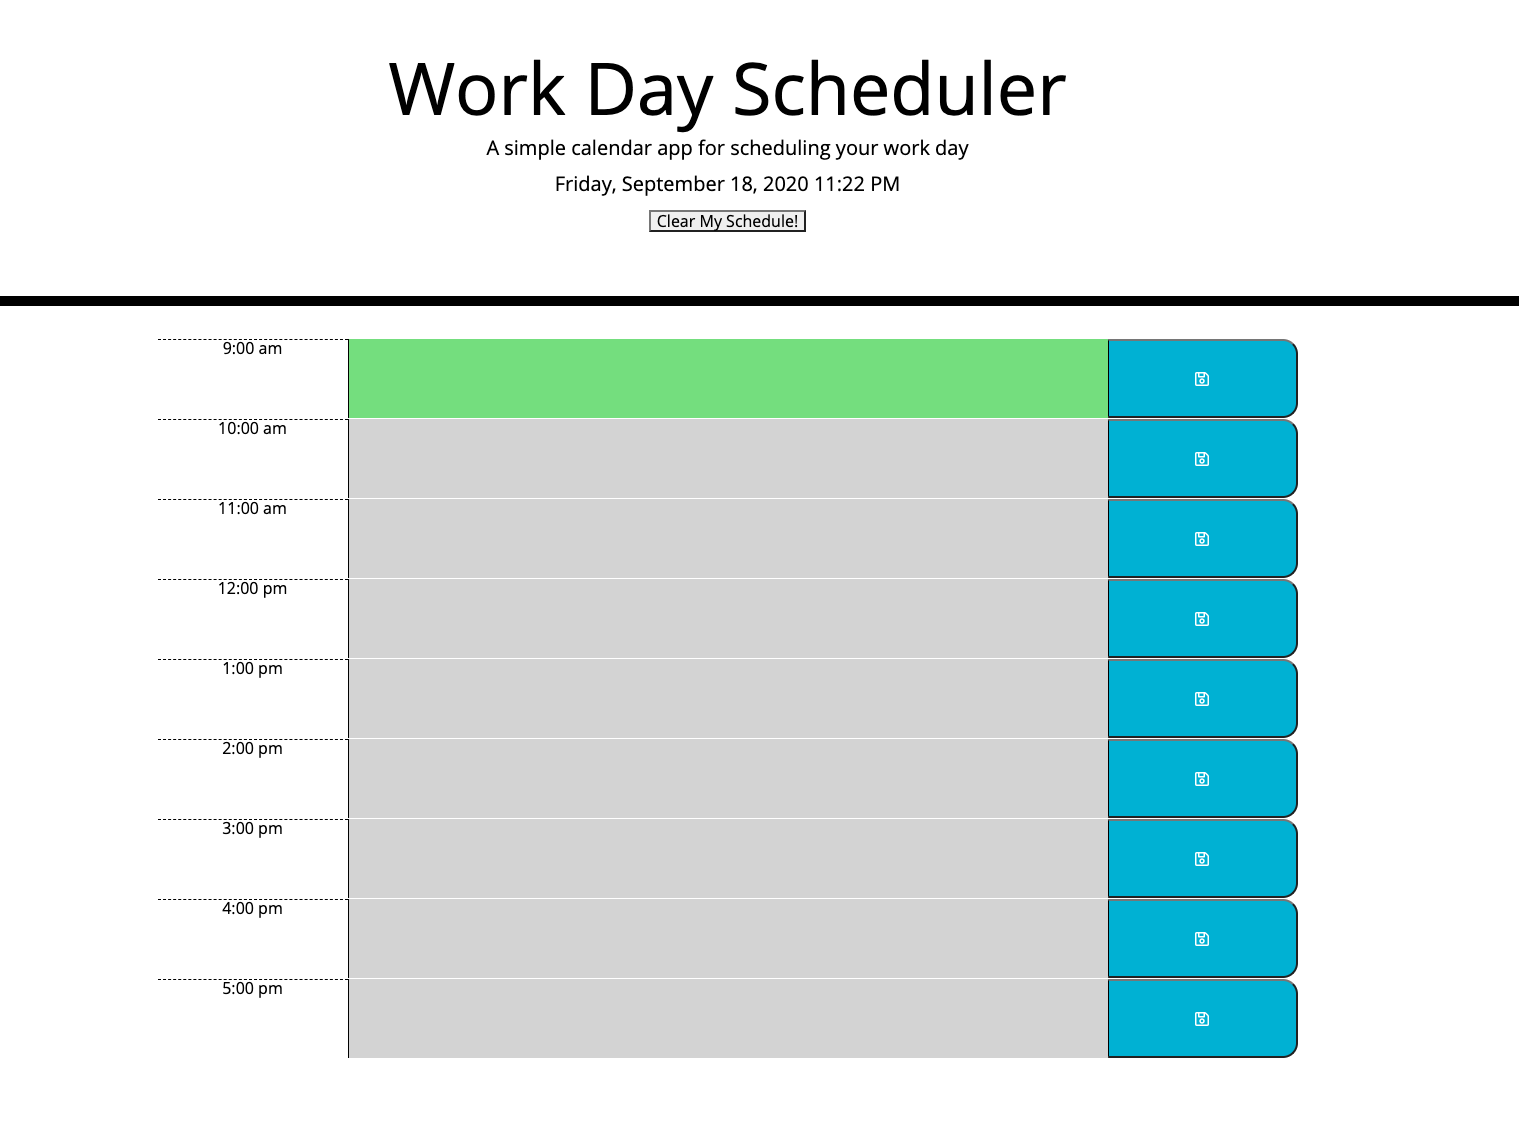
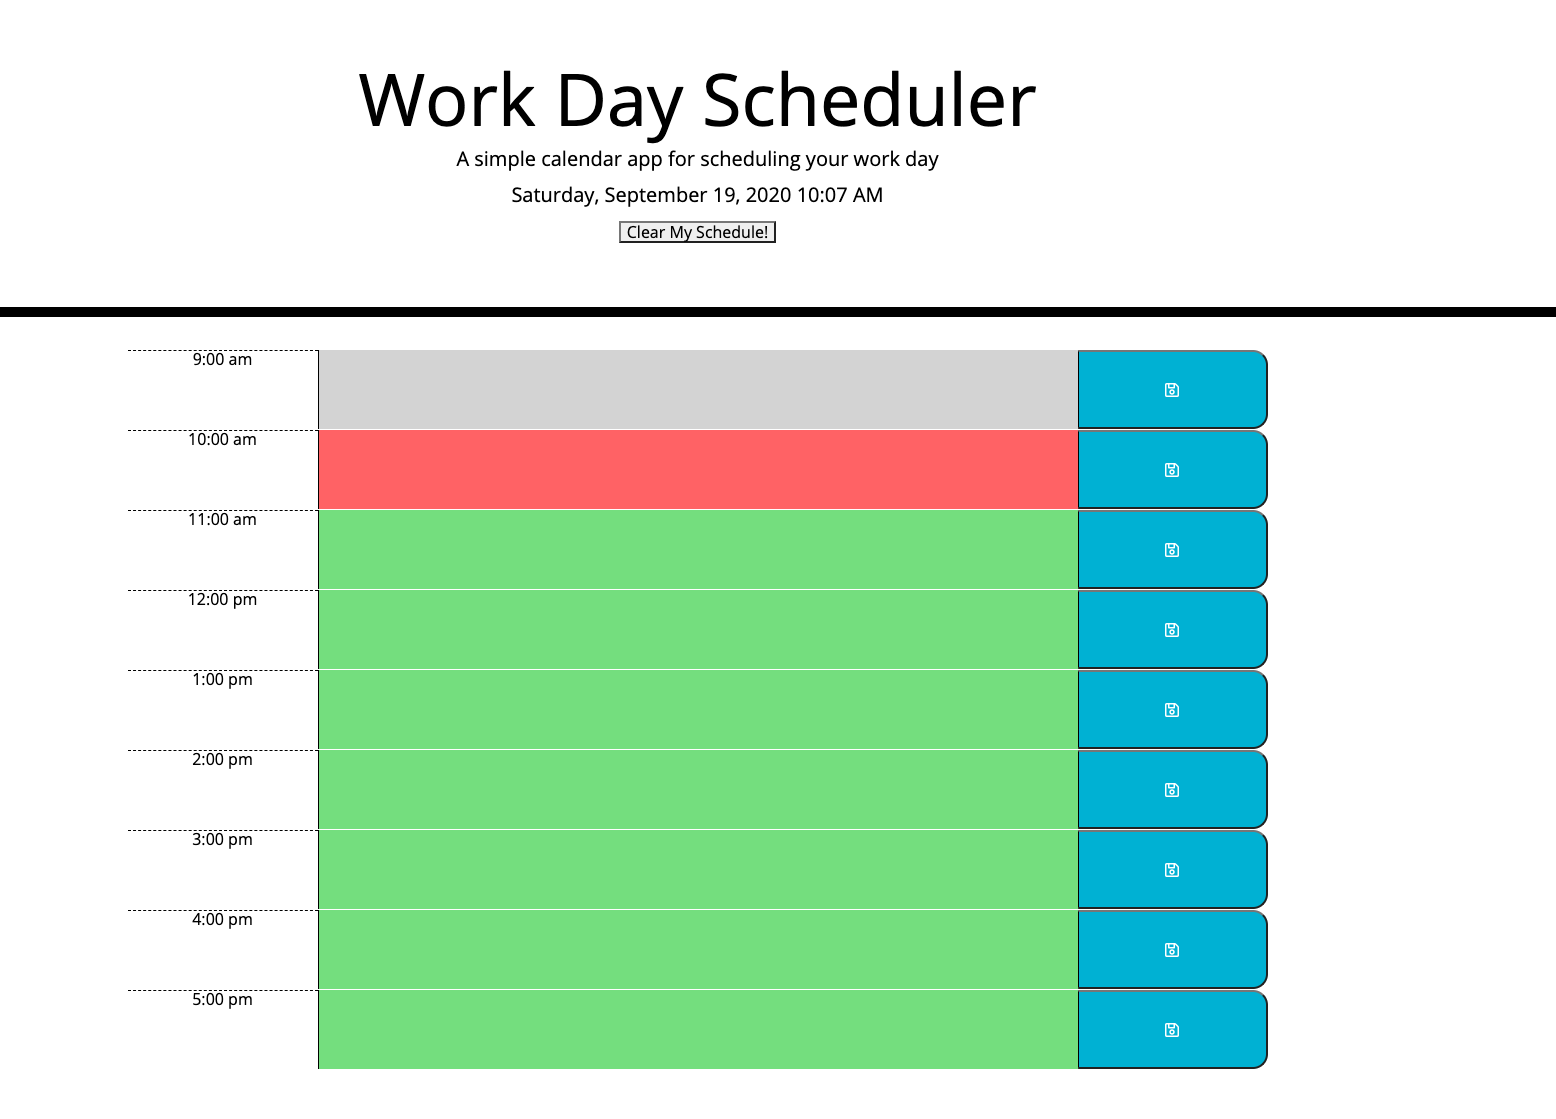
update schedule as day progresses with appropriate classes

diff --git a/script.js b/script.js
@@ -3,7 +3,7 @@ let container = $(".container");
 let saveToLocal = $(".saveBtn");
 
 const workHours = ["9:00 am", "10:00 am", "11:00 am", "12:00 pm", "1:00 pm", "2:00 pm", "3:00 pm", "4:00 pm", "5:00 pm",];
-const currentHour = moment().format("H")
+const currentHour = parseInt(moment().format("H"))
 
 
 
@@ -38,25 +38,27 @@ function printWorkDay(hour) {
         hourRow.append(workHour, tasks, save);
         save.append(savIco);
     }
+    timeOfDay();
 
-
+}
+// update the calendar to reflect the progression of the work day
+function timeOfDay() {
     for (var j = 0; j < 9; j++) {
         let workID = $("#hour-" + (9 + j));
-        let singleHour = workID[0].id.replace("hour-", "");
+        let singleHour = parseInt(workID[0].id.replace("hour-", ""));
         let taskMod = $("#text-" + j);
-        // console.log(singleHour);
+
         if (currentHour === singleHour) {
             taskMod.addClass("present");
-            console.log(singleHour);
         } else if (currentHour > singleHour) {
             taskMod.addClass("past");
-            // console.log(singleHour);
-        } else if (currentHour < singleHour) {
+        } else {
             taskMod.addClass("future");
-            console.log(singleHour);
         }
     }
 }
+
+
 //gives the current date and time
 function currentDay() {
     $("#currentDay").text(now.format("LLLL"));
@@ -74,7 +76,7 @@ function saveTask(event) {
 //saves tasks to local storage
 $(".saveBtn").click(saveTask);
 //clears local Storage and  reloads page.
-$("#scheduleClear").click(function() {
+$("#scheduleClear").click(function () {
     localStorage.clear();
     location.reload();
 })
